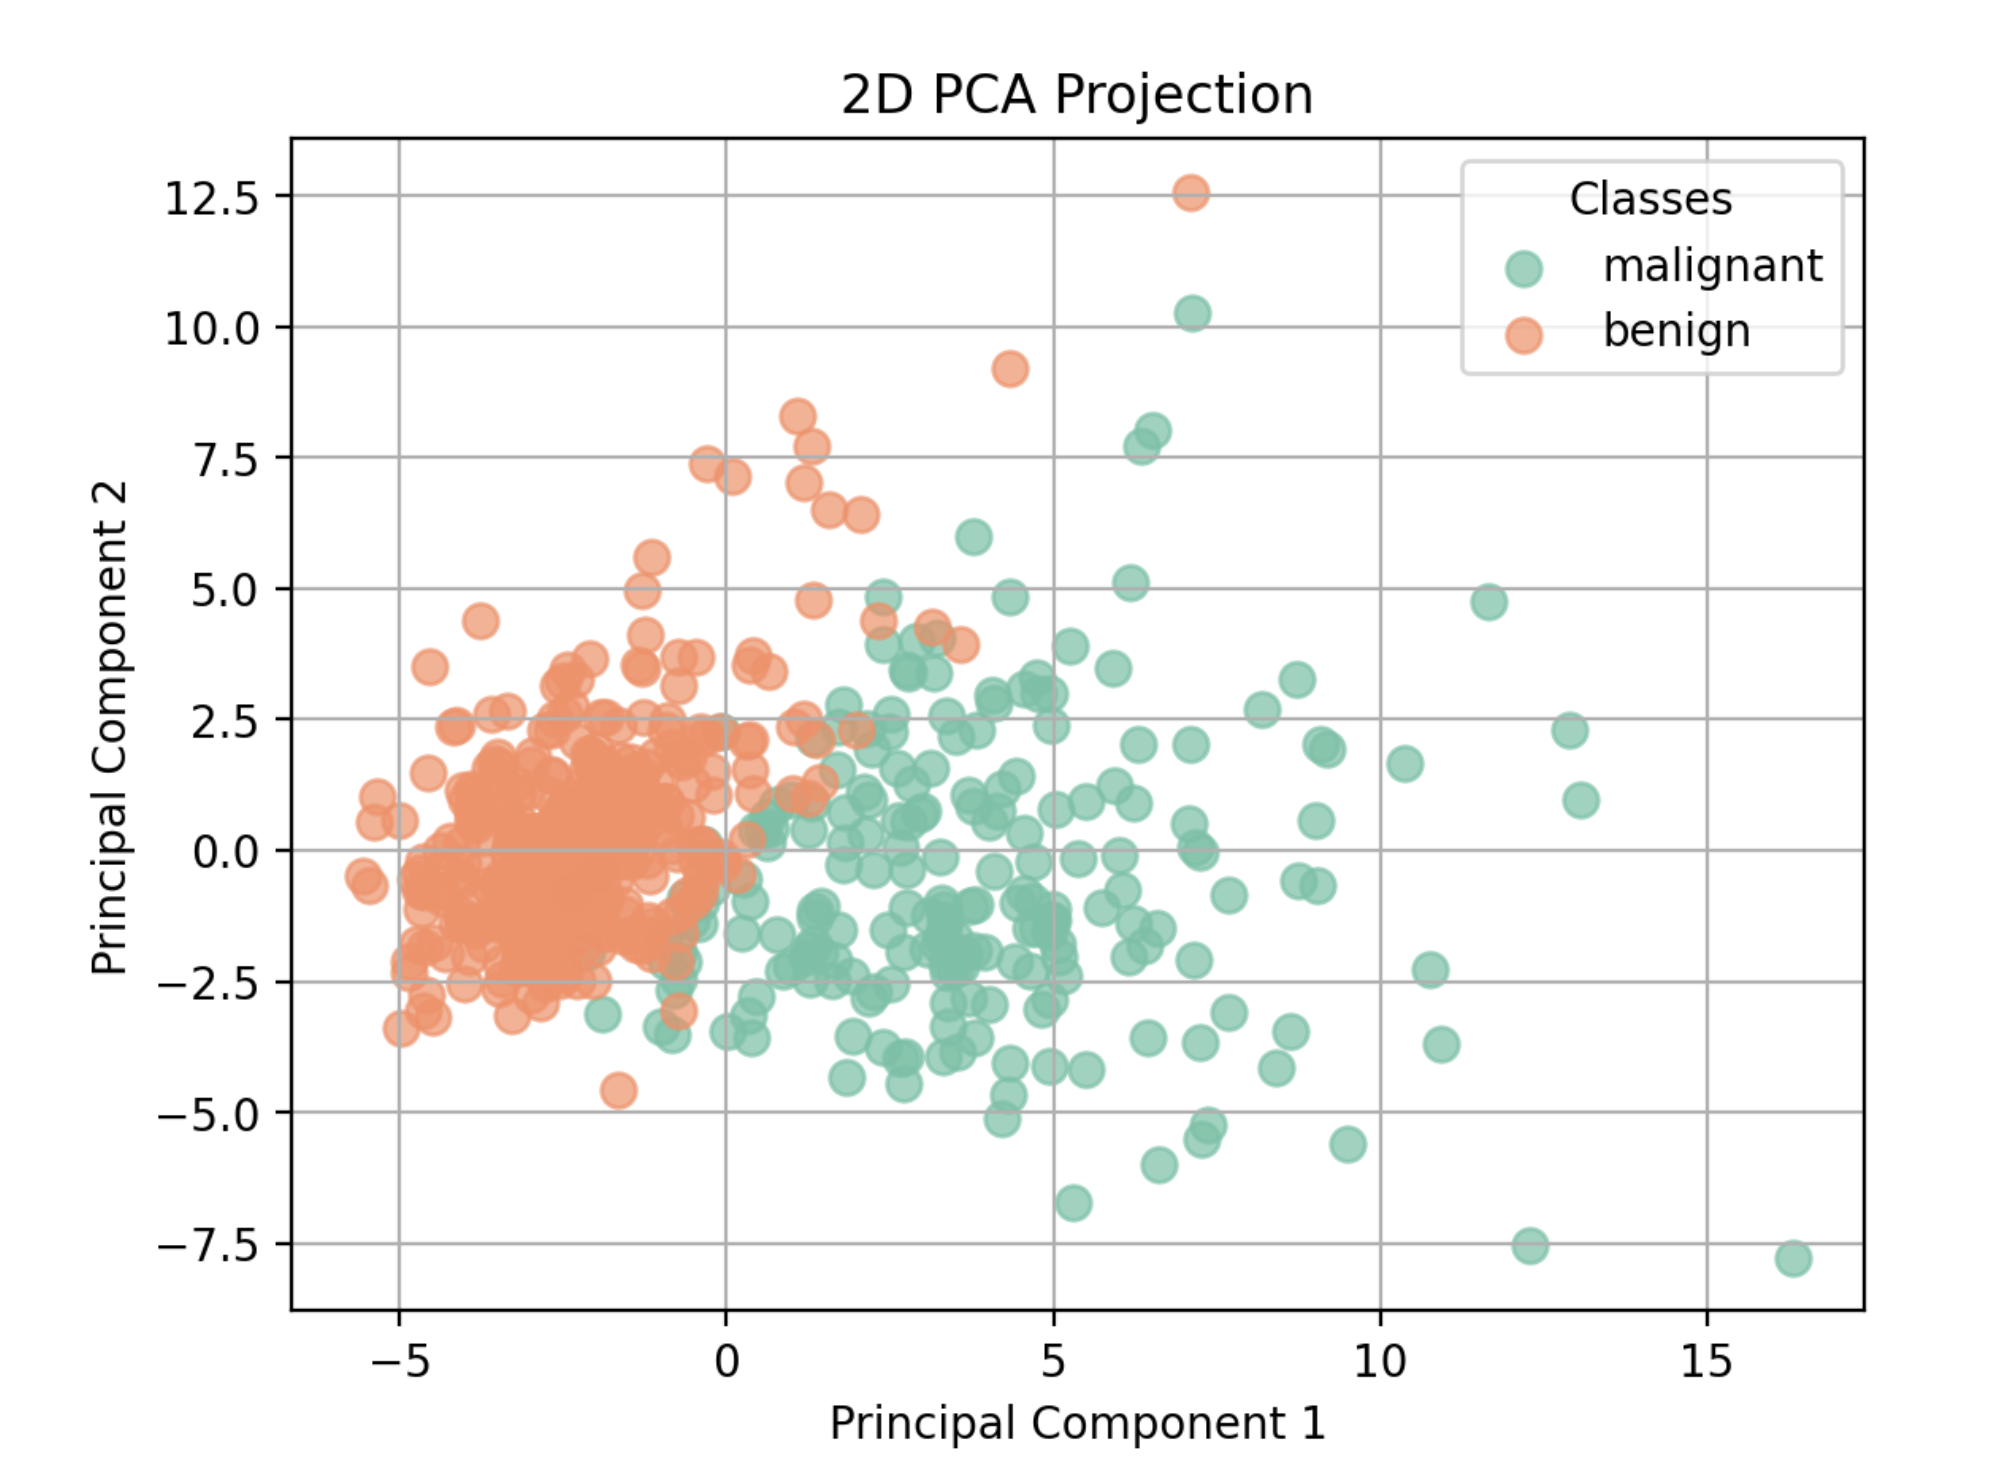
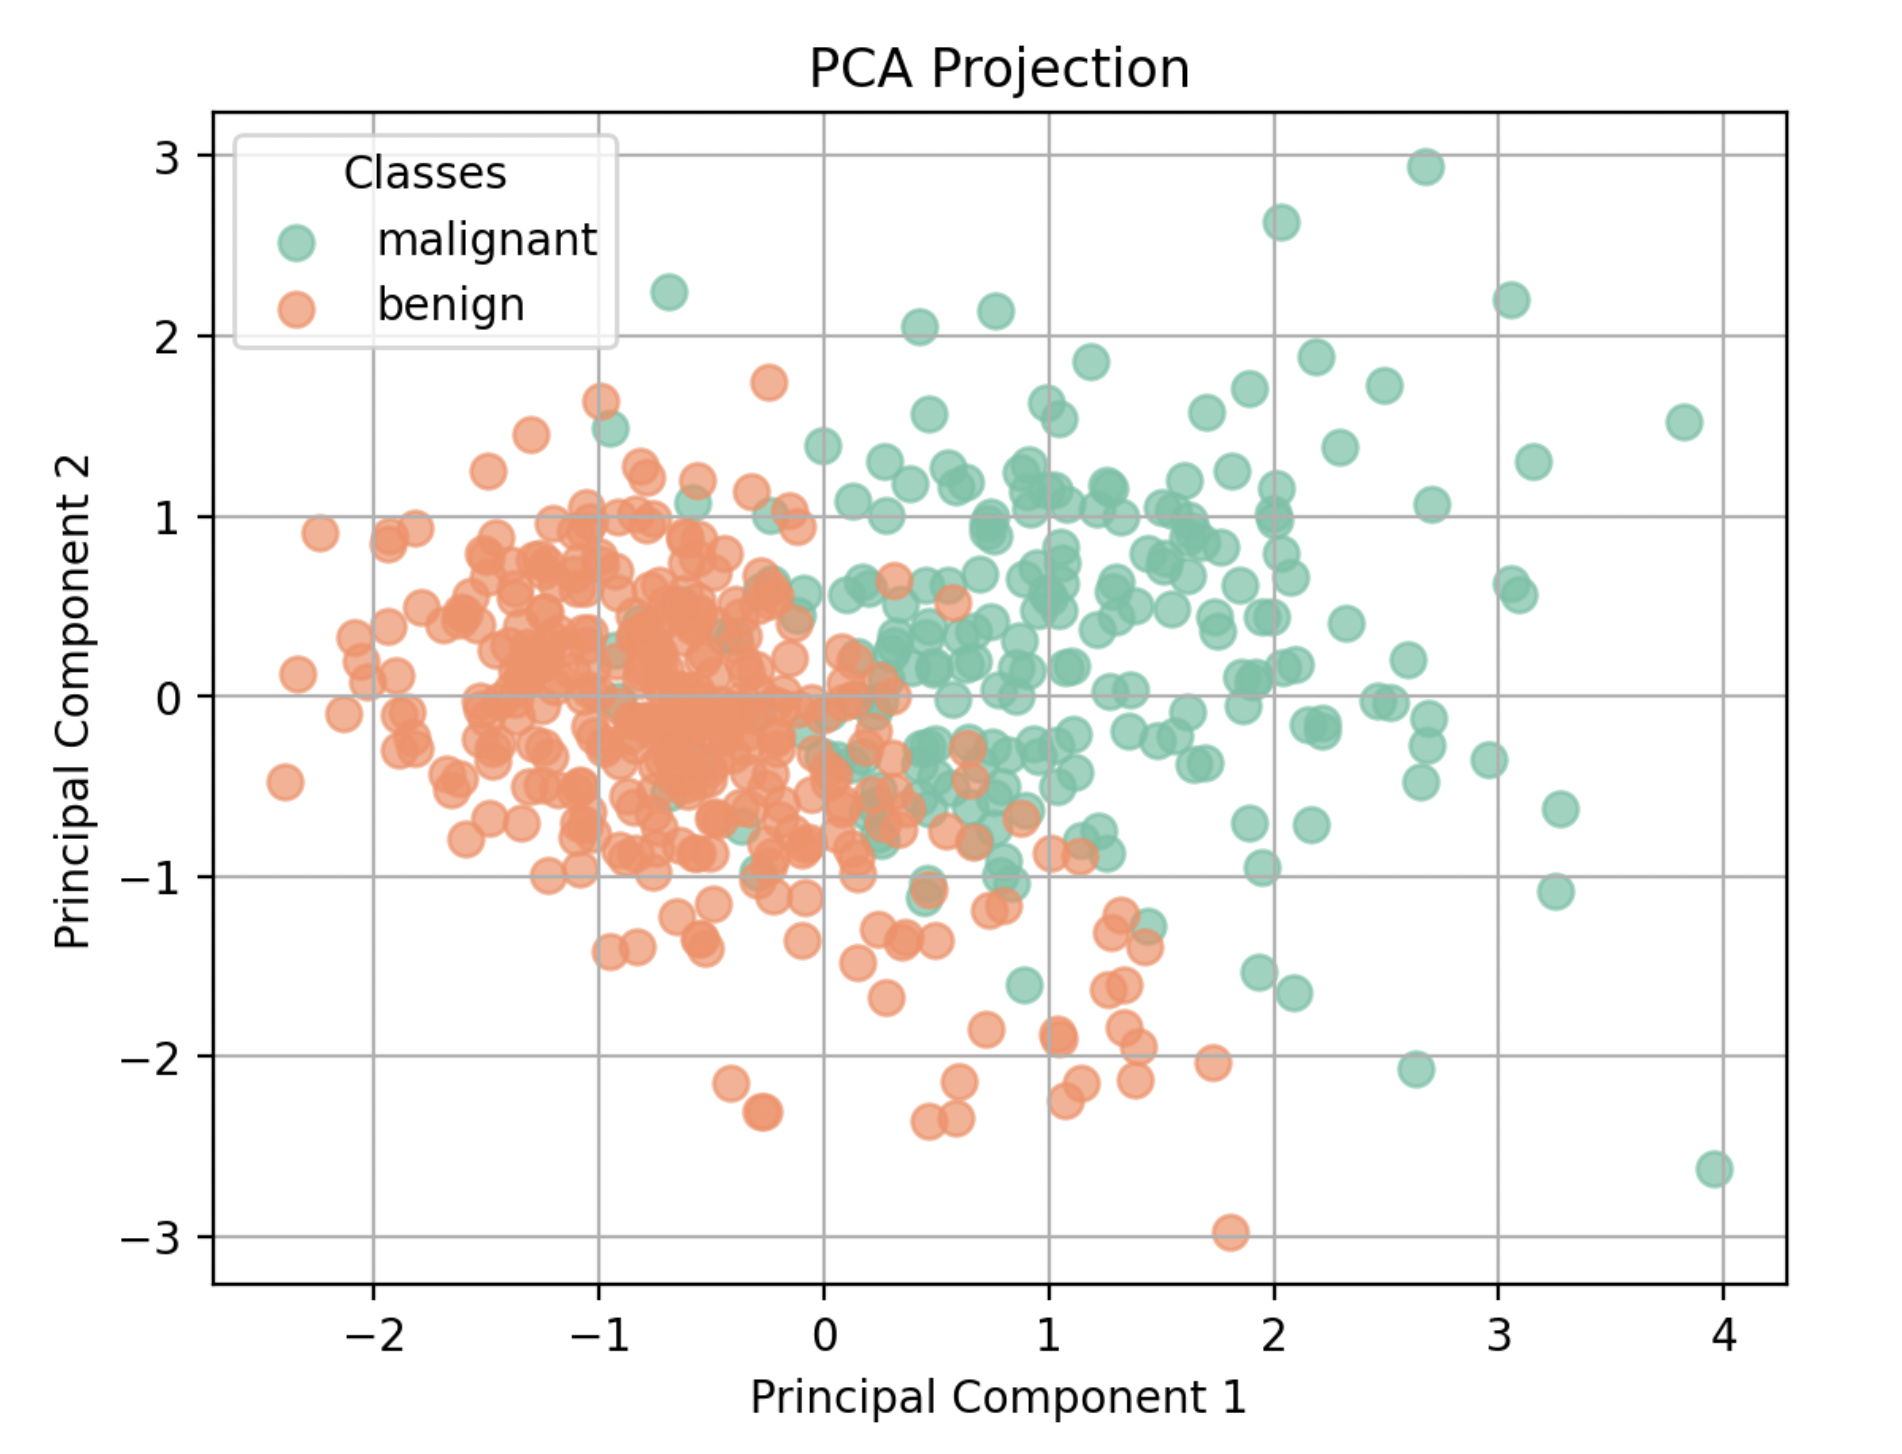
standardize plots and debugging

Changed region(s): [[0.031, 0.0309, 0.9616, 0.9904], [0.8375, 0.6499, 0.8686, 0.6809], [0.7755, 0.6499, 0.8065, 0.6809]]

diff --git a/MLUnsupervisedApp/main.py b/MLUnsupervisedApp/main.py
@@ -7,6 +7,7 @@ import numpy as np
 
 import matplotlib.pyplot as plt
 import matplotlib.cm as cm
+from matplotlib.colors import ListedColormap
 import seaborn as sns
 
 from sklearn.datasets import load_breast_cancer
@@ -18,8 +19,6 @@ from sklearn.cluster import AgglomerativeClustering
 
 from sklearn.metrics import silhouette_score
 from scipy.cluster.hierarchy import linkage, dendrogram
-
-# Add PCA check for > 10 classes
 
 # ==== HELPER FUNCTIONS ====
 def get_color_palette(name="Set2", n=10):
@@ -63,6 +62,10 @@ def handle_uploaded_data(uploaded_file):
     """
     Preprocesses custom CSV files for use with unsupervised ML models.
     """
+    #Ensure Clean State
+    for key in ['y', 'target_names', 'pca_results', 'visualization_data', 'cluster_labels', 'X_pca']:
+        st.session_state.pop(key, None)
+
     df = load_data(uploaded_file)
     st.session_state['df_raw'] = df.copy()
 
@@ -96,7 +99,7 @@ def handle_preloaded_data(name):
     Handles automatic preprocessing steps for known demo datasets
     """
     #Ensure Clean State
-    for key in ['y', 'target_names', 'pca_results', 'visualization_data']:
+    for key in ['y', 'target_names', 'pca_results', 'visualization_data', 'cluster_labels', 'X_pca']:
         st.session_state.pop(key, None)
 
     if name == "Breast Cancer":
@@ -269,7 +272,7 @@ def fit_pca(X_scaled, y, selected_features=None, n_components=2):
     return X_pca, pca, y_subset
 
 def get_pca_projection(X_scaled, y, selected_features=None, n_components=2):
-    sf_hash = hash(tuple(selected_features)) if selected_features is not None else 'all'
+    sf_hash = hash(tuple(selected_features)) if selected_features else "all_features"
     key = f"pca_{n_components}_{sf_hash}"
     
     if key not in st.session_state:
@@ -288,7 +291,7 @@ def plot_pca_projection(X_pca, y, target_names, title="PCA Projection", palette=
     # Basic input checks
     if X_pca is None or y is None or len(X_pca) != len(y):
         st.error("Invalid inputs for PCA projection plot.")
-        return fig
+        return None
 
     # Ensure labels are numeric indices
     le = LabelEncoder()
@@ -309,9 +312,18 @@ def plot_pca_projection(X_pca, y, target_names, title="PCA Projection", palette=
 
     ax.set_xlabel("Principal Component 1")
     ax.set_ylabel("Principal Component 2")
-    ax.set_title(title)
-    ax.legend(title="Classes")
+    ax.set_title(title, fontsize=12)
+    ax.legend()
     ax.grid(True)
+
+    # Avoid Plot Overcrowding
+    handles, leg_labels = ax.get_legend_handles_labels()
+    num_legend_items = len(leg_labels)
+    max_num_legend_items = 10
+    if num_legend_items > max_num_legend_items:
+        st.warning(f"PCA is limited to {max_num_legend_items} different groups. Your data has {num_legend_items}. Try a different plot or adjust parameters to avoid overcrowding.")
+        return
+
     return fig
 
 def plot_pca_projection_with_biplot(X_pca, y, target_names, feature_names, model, show_loadings=False, scaling_factor=50):
@@ -319,17 +331,22 @@ def plot_pca_projection_with_biplot(X_pca, y, target_names, feature_names, model
     Plots a 2D PCA projection with optional feature vectors (biplot).
     """
     unique_classes = np.unique(y)
-    num_classes = len(unique_classes)
     palette = get_color_palette()
 
-    fig, ax = plt.subplots(figsize=(8, 6))
+    # Avoid Plot Overcrowding
+    max_unique_classes = 10
+    if len(unique_classes) > max_unique_classes:
+        st.warning(f"PCA is limited to {max_unique_classes} different groups. Your data has {len(unique_classes)}. Try a different plot or adjust parameters to avoid overcrowding.")
+        return
+
+    fig, ax = plt.subplots()
 
     # Scatter plot
     for color, class_val, label in zip(palette, unique_classes, target_names):
         ax.scatter(
             X_pca[y == class_val, 0], X_pca[y == class_val, 1],
             color=color, alpha=0.7, label=label,
-            edgecolor='black', s=60
+            s=60
         )
 
     # Biplot arrows
@@ -345,8 +362,8 @@ def plot_pca_projection_with_biplot(X_pca, y, target_names, feature_names, model
 
     ax.set_xlabel("Principal Component 1")
     ax.set_ylabel("Principal Component 2")
-    ax.set_title("2D Projection of Dataset")
     ax.legend(loc="best")
+    ax.set_title("PCA Projection with Biplot", fontsize=12)
     ax.grid(True)
     ax.axis('equal')
 
@@ -360,7 +377,7 @@ def plot_pca_variance_explained(pca, color1="#66c2a5", color2="#fc8d62"):
     cumulative = np.cumsum(explained)
     components = np.arange(1, len(explained) + 1)
 
-    fig, ax1 = plt.subplots(figsize=(8, 6))
+    fig, ax1 = plt.subplots()
     ax1.bar(components, explained, alpha=0.8, label='Individual Variance', color=color1)
     ax1.set_xlabel('Principal Component')
     ax1.set_ylabel('Individual Variance Explained (%)')
@@ -410,26 +427,58 @@ def compute_clustering_metrics(X_scaled, method="kmeans", random_state=None, lin
 
     return ks, wcss_list, silhouette_scores
 
-def plot_hierarchical_clustering(df, target_names=None):
+def plot_pca_hierarchical_clustering(X_scaled, cluster_labels, title="Hierarchical Clustering (PCA Projection)", max_clusters=10):
     """
-    Plots PCA projection of Agglomerative clusters.
-    """
-    X_scaled = st.session_state.get("X_scaled")
-    y = st.session_state.get("y")
-    selected_features = st.session_state.get("selected_features", [])
-    
-    # Get PCA projection (uses smart cache)
-    X_pca, pca, _ = get_pca_projection(X_scaled, y, selected_features, 2)
+    Streamlit-compatible 2D PCA plot for Hierarchical Clustering.
 
-    if X_pca is None:
-        st.error("PCA projection could not be computed.")
+    Parameters:
+    - X_scaled: Scaled feature matrix (NumPy array or DataFrame)
+    - cluster_labels: Array of Agglomerative clustering labels
+    - title: Plot title
+    - max_clusters: Maximum number of clusters to display (default: 10)
+    """
+    if X_scaled is None or cluster_labels is None:
+        st.error("Missing data or clustering labels.")
         return
 
-    labels = df["Cluster"]
-    label_names = [f"Cluster {i}" for i in sorted(df["Cluster"].unique())]
+    # Count unique clusters
+    unique_clusters = np.unique(cluster_labels)
+    num_clusters = len(unique_clusters)
 
-    palette = get_color_palette()
-    fig = plot_pca_projection(X_pca, labels, label_names, "Hierarchical Clustering (PCA Projection)", palette)
+    # Compute 2D PCA projection
+    pca = PCA(n_components=2)
+    X_pca = pca.fit_transform(X_scaled)
+
+    # Plotting
+    
+    # Define color palette
+    palette = get_color_palette()  # returns list of hex colors
+    cmap = ListedColormap(palette[:num_clusters])
+    
+    fig, ax = plt.subplots()
+
+    scatter = ax.scatter(
+        X_pca[:, 0], X_pca[:, 1],
+        c=cluster_labels,
+        s=60,
+        alpha=0.7,
+        cmap=cmap
+    )
+    ax.set_xlabel("Principal Component 1")
+    ax.set_ylabel("Principal Component 2")
+    ax.set_title(title)
+    legend = ax.legend(*scatter.legend_elements(), title="Clusters")
+    ax.add_artist(legend)
+    ax.grid(True)
+
+    # Avoid Plot Overcrowding
+    handles, leg_labels = ax.get_legend_handles_labels()
+    num_legend_items = len(leg_labels)
+    max_num_legend_items = 10
+    if num_legend_items > max_num_legend_items:
+        st.warning(f"PCA is limited to {max_num_legend_items} different groups. Your data has {num_legend_items}. Try a different plot or adjust parameters to avoid overcrowding.")
+        return
+
     st.pyplot(fig)
 
 st.set_page_config(page_title="DataQuest", layout="wide") # Establish layout
@@ -510,8 +559,7 @@ with tab1:
         missing_option = st.session_state['missing_option']
 
         # Handle missing values
-        if missing_option:
-            df = handle_missing_values(df, missing_option)
+        df = handle_missing_values(df, missing_option)
 
         # Display Dataframe
         st.write("Preview of processed dataset:")
@@ -565,7 +613,7 @@ with tab2:
             # Bar Chart
             with col1:
                 fig1, ax1 = plt.subplots()
-                ax1.bar(range(1, len(explained_variance)+1), explained_variance)
+                ax1.bar(range(1, len(explained_variance)+1), explained_variance, color=get_color_palette()[0])
                 ax1.set_xlabel('Principal Component')
                 ax1.set_ylabel('Explained Variance Ratio')
                 ax1.set_title('Explained Variance by Component')
@@ -830,10 +878,9 @@ with tab3:
 
         X_pca, pca, _ = get_pca_projection(X_scaled, y, selected_features, n_components)
         if X_pca is None or pca is None:
-            st.error("Unable to compute PCA projection.")
+            st.error("Unable to compute PCA projection for visualization.")
             st.stop()
 
-        labels = y
         label_names = st.session_state.get("target_names", [str(i) for i in np.unique(y)])
 
         # Toggle biplot
@@ -851,12 +898,13 @@ with tab3:
             value=50,
             help="Adjusts the length of the loading arrows in the biplot to improve visibility."
         )
-            fig = plot_pca_projection_with_biplot(X_pca, labels, label_names, selected_features, pca,
+            fig = plot_pca_projection_with_biplot(X_pca, y, label_names, selected_features, pca,
                                                 show_loadings=True, scaling_factor=scaling_factor)
         else:
-            fig = plot_pca_projection(X_pca, labels, label_names, "2D PCA Projection")
+            fig = plot_pca_projection(X_pca, y, label_names)
     
-        st.pyplot(fig)
+        if fig:
+            st.pyplot(fig)
 
         # Also show variance explained
         st.subheader("Variance Explained by Principal Components")
@@ -906,8 +954,9 @@ with tab3:
         # === Plot PCA projection ===
         palette = get_color_palette()
         fig = plot_pca_projection(X_pca, labels, label_names,
-                                f"PCA Projection Colored by {color_mode}", palette)
-        st.pyplot(fig)
+                                f"K-Means Clustering (PCA Projection Colored by {color_mode})", palette)
+        if fig:
+            st.pyplot(fig)
         
     # ==== Hierarchical Clustering ====  
     if st.session_state.get("model_name") == "Hierarchical Clustering":
@@ -916,6 +965,6 @@ with tab3:
             cluster_labels = st.session_state["cluster_labels"]
 
             # Plot the hierarchical clustering result
-            plot_hierarchical_clustering(X_scaled, y, cluster_labels)
+            plot_pca_hierarchical_clustering(X_scaled, cluster_labels)
         else:
             st.warning("Cluster labels or scaled data not found. Please ensure clustering is performed first.")
